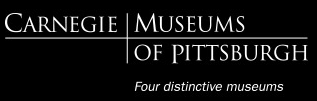
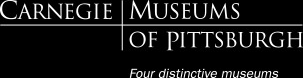
footer styled

Changed region(s): [[0.0, 0.0, 1.0, 0.6667], [0.4158, 0.7949, 0.9208, 1.0]]

diff --git a/wp-content/themes/cmp/assets/styles/layouts/_footer.scss b/wp-content/themes/cmp/assets/styles/layouts/_footer.scss
@@ -1,20 +1,50 @@
 // SITE FOOTER LAYOUT STYLES
 ////////////////////////////////////////////////////////////////
 .footer {
-  height:400px;
   padding:3em;
   background-color: black;
+
+  img {
+    padding-right:2em;
+  }
+
+  .right-links {
+    width:100%;
+  }
+
+  .top-row {
+    display:flex;
+    justify-content: space-between;
+    width:100%;
+  }
+
+  .middle-row {
+    display:flex;
+    align-items: flex-start;
+    justify-content: flex-start;
+    height:50px;
+  }
+
+  .bottom-row {
+    @extend .middle-row;
+
+    p {
+      color:white;
+      font-weight: 300;
+      font-family: .7em;
+      text-transform: uppercase;
+    }
+    .copyright {
+      margin-left:9em;
+      text-transform: capitalize;
+    }
+  }
 
   .footer-links {
     margin:auto;
     display:flex;
     justify-content: space-between;
     align-items: flex-start;
-
-  img {
-    height:100px;
-    padding-right:1em;
-  }
 
   .footer-links-section {
     a {
@@ -35,4 +65,47 @@
     }
   }
 }
+  .email-subscribe {
+    margin-bottom:0;
+    padding-bottom:0;
+
+    p {
+      display:flex;
+    }
+    input.wpcf7-form-control.wpcf7-text.wpcf7-email.wpcf7-validates-as-email {
+      height:40px;
+      width:250px;
+      margin-right: 5px;
+      border-radius:2px;
+      text-transform: uppercase;
+      color:white;
+      font-size:.9em;
+      margin-top:5px;
+    }
+
+    input.wpcf7-form-control.wpcf7-submit {
+      @extend .green-button;
+      height:40px;
+    }
+  }
+
+  .small-social-icons {
+
+    position:relative;
+    top:5px;
+    margin-left:5em;
+
+    img {
+      height:40px;
+      padding:0;
+      margin:0;
+      padding-right:3px;
+    }
+  }
+
+  .hr-break {
+    width:100%;
+    display:block;
+    color:#707070;
+  }
 }

diff --git a/wp-content/themes/cmp/templates/partials/footer.blade.php b/wp-content/themes/cmp/templates/partials/footer.blade.php
@@ -4,39 +4,72 @@
 
     <img src="wp-content/themes/cmp/assets/images/cmpfooter.png">
 
-    <div class="footer-links-section">
+    <div class="right-links">
 
-      <a href="#">Things to Do</a>
-      <a href="#">Visit</a>
-      <a href="#">Join & Support</a>
+      <div class="top-row">
+
+        <div class="footer-links-section">
+
+          <a href="#">Things to Do</a>
+          <a href="#">Visit</a>
+          <a href="#">Join & Support</a>
+
+        </div>
+
+        <div class="footer-links-section">
+
+          <a href="#">Event Spaces</a>
+          <a href="#">About Us</a>
+          <a href="#">Carnegie Magazine</a>
+
+        </div>
+
+        <div class="footer-links-section footer-links-section__small">
+
+          <a href="#">Carnegie Museum of Art</a>
+          <a href="#">Carnegie Science Center</a>
+
+        </div>
+
+        <div class="footer-links-section footer-links-section__small">
+
+          <a href="#">Carnegie Museum of Natural History</a>
+          <a href="#">The Andy Warhol Museum</a>
+
+        </div>
+
+      </div>
+
+      <hr class="hr-break">
+
+      <div class="middle-row">
+
+        <div class="email-subscribe">
+
+          <?php echo do_shortcode("[contact-form-7 id='128' title='Email Form']"); ?>
+
+        </div>
+
+        <div class="small-social-icons">
+
+          <img src="wp-content/themes/cmp/assets/images/facebook.png">
+          <img src="wp-content/themes/cmp/assets/images/twitterwhite.png">
+          <img src="wp-content/themes/cmp/assets/images/instagram-logo-white.png">
+
+        </div>
+
+      </div>
+
+      <hr class="hr-break">
+
+      <div class="bottom-row">
+
+        <p>Press  |  Careers  |  Volunteers  |  Privacy</p>
+        <p class="copyright">©2017 Carnegie Museums of Pittsburgh</p>
+
+      </div>
 
     </div>
-
-    <div class="footer-links-section">
-
-      <a href="#">Event Spaces</a>
-      <a href="#">About Us</a>
-      <a href="#">Carnegie Magazine</a>
-
-    </div>
-
-    <div class="footer-links-section footer-links-section__small">
-
-      <a href="#">Carnegie Museum of Art</a>
-      <a href="#">Carnegie Science Center</a>
-
-    </div>
-
-    <div class="footer-links-section footer-links-section__small">
-
-      <a href="#">Carnegie Museum of Natural History</a>
-      <a href="#">The Andy Warhol Museum</a>
-
-    </div>
-
-  </div>
-
-  <div class="footer-subscribe">
 
   </div>
 
